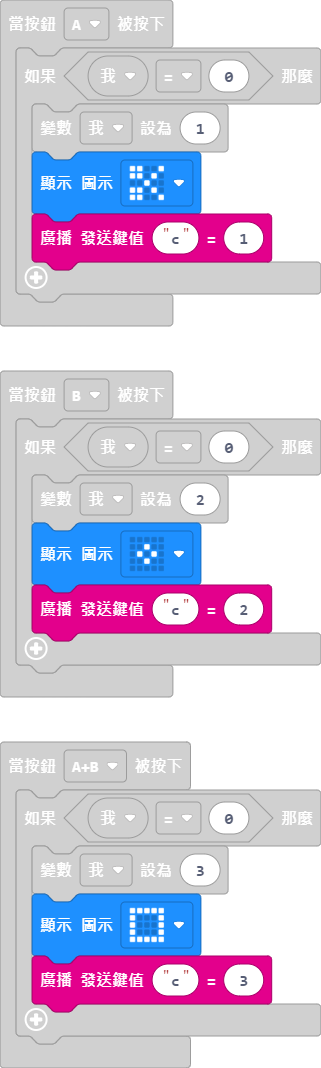
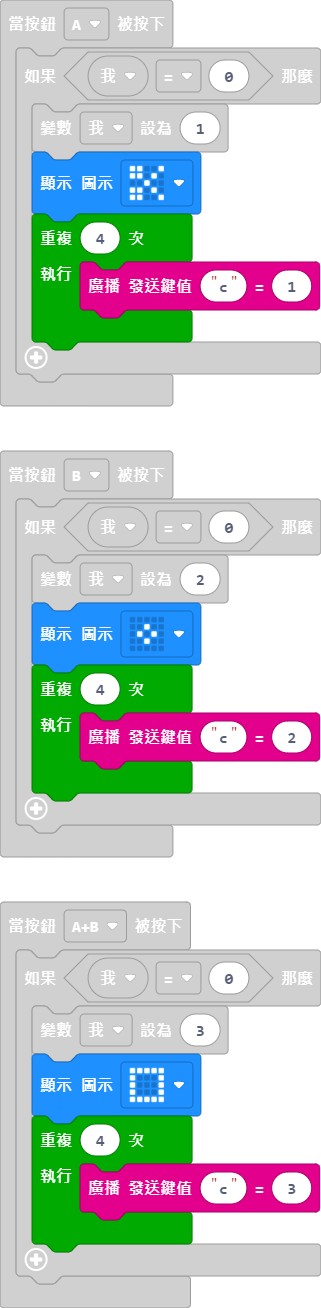
更新 main.blocks, main.ts

diff --git a/main.ts b/main.ts
@@ -2,7 +2,9 @@ input.onButtonPressed(Button.A, function () {
     if (我 == 0) {
         我 = 1
         basic.showIcon(IconNames.Scissors)
-        radio.sendValue("c", 1)
+        for (let index = 0; index < 4; index++) {
+            radio.sendValue("c", 1)
+        }
     }
 })
 function 設定初值 () {
@@ -42,14 +44,18 @@ input.onButtonPressed(Button.AB, function () {
     if (我 == 0) {
         我 = 3
         basic.showIcon(IconNames.Square)
-        radio.sendValue("c", 3)
+        for (let index = 0; index < 4; index++) {
+            radio.sendValue("c", 3)
+        }
     }
 })
 input.onButtonPressed(Button.B, function () {
     if (我 == 0) {
         我 = 2
         basic.showIcon(IconNames.SmallDiamond)
-        radio.sendValue("c", 2)
+        for (let index = 0; index < 4; index++) {
+            radio.sendValue("c", 2)
+        }
     }
 })
 radio.onReceivedValue(function (name, value) {
